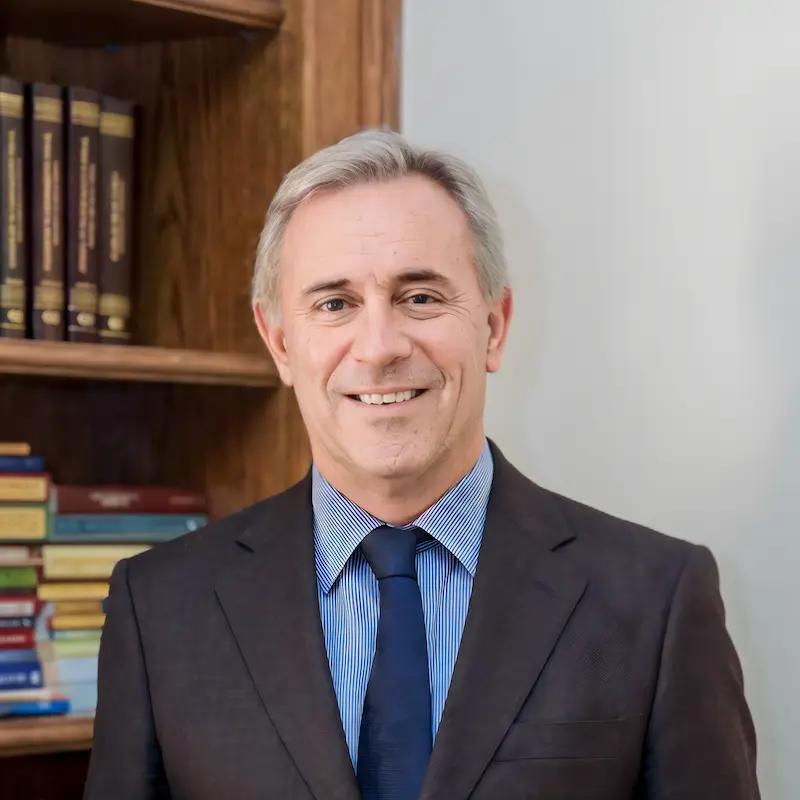
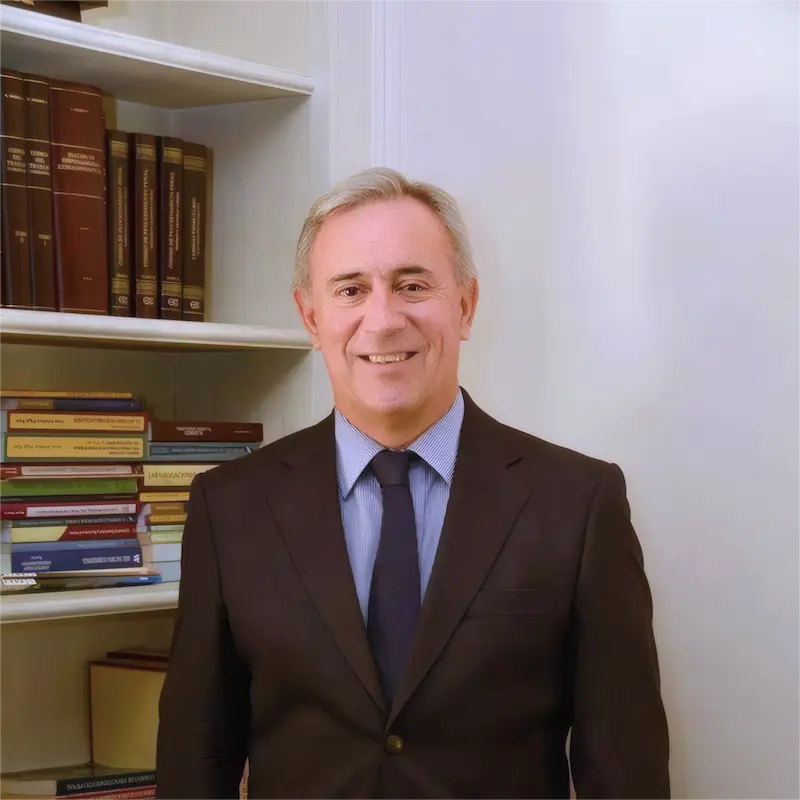
feat: textos plurales y actualizados de adil

diff --git a/src/data/areasDeTrabajo.js b/src/data/areasDeTrabajo.js
@@ -1,5 +1,12 @@
 export const contenidos = {
-    'reparacion-ddhh': {
+    'litigios-indemnizatorios': {
+        titulo: 'Litigios Indemnizatorios',
+        titleSecondary: 'Litigación especializada orientada a la reparación integral del daño',
+        resumenHome: 'Litigación especializada orientada a la reparación integral del daño',
+        descripcion: '**Brindamos representación judicial de alta complejidad en todo tipo de litigios indemnizatorios, ya sea en materia civil, penal, laboral o administrativa.**\n\n',
+        imagen: 'https://images.unsplash.com/photo-1450101499163-c8848c66ca85?q=80&w=1200&auto=format&fit=crop',
+        creditoFoto: 'Unsplash',
+    }, 'reparacion-ddhh': {
         titulo: 'Reparación y Derechos Humanos',
         titleSecondary: 'Justicia civil y reparaciones económicas para víctimas históricas.',
         resumenHome: 'Lideramos procesos de reparación civil para víctimas de violaciones a los DD.HH., con una trayectoria de más de 30 años en causas históricas contra el Estado.',
@@ -15,19 +22,12 @@ export const contenidos = {
         imagen: '/img/defensa-comunidades-carretera-austral.webp',
         creditoFoto: 'M M (Padmanaba01) / Wikimedia (CC BY-SA 2.0)',
     },
-    'litigios-indemnizatorios': {
-        titulo: 'Litigios Indemnizatorios',
-        titleSecondary: 'Especialistas en obtener justicia frente a negligencias y accidentes.',
-        resumenHome: 'Especialistas en negligencias médicas, accidentes laborales y responsabilidad civil para obtener restituciones justas.',
-        descripcion: '**Brindamos representación judicial de alta complejidad en todo tipo de litigios indemnizatorios, ya sea en materia civil, penal, laboral o administrativa.**\n\nContamos con vasta experiencia obteniendo compensaciones por daños y perjuicios derivados de accidentes laborales, accidentes de tránsito de gravedad, siniestros aéreos y negligencias médicas, asegurando que la responsabilidad de las grandes corporaciones o instituciones sea debidamente sancionada.',
-        imagen: 'https://images.unsplash.com/photo-1450101499163-c8848c66ca85?q=80&w=1200&auto=format&fit=crop',
-        creditoFoto: 'Unsplash',
-    },
+
     'defensa-administrativa': {
         titulo: 'Defensa Administrativa',
-        titleSecondary: 'Resguardo frente al poder sancionador del Estado y sumarios.',
+        titleSecondary: 'Resguardo frente al poder sancionador del Estado.',
         resumenHome: 'Asesoría técnica en sumarios administrativos y procesos sancionatorios frente a organismos del Estado y entes reguladores.',
-        descripcion: '**Entregamos representación y defensa jurídica técnica en sumarios administrativos instruidos contra funcionarios públicos**, así como en procesos sancionatorios seguidos por organismos del Estado en contra de empresas reguladas.\n\nProtegemos el debido proceso y la honra profesional frente al ejercicio de la potestad disciplinaria, asegurando que las sanciones no sean arbitrarias ni desproporcionadas respecto a la normativa vigente.',
+        descripcion: '**Ofrecemos una defensa jurídica técnica en sumarios administrativos e investigaciones sumarias**, instruidos en contra funcionarios públicos, protegiendo el debido proceso y la honra profesional frente al ejercicio de la potestad disciplinaria, asegurando que las sanciones no sean arbitrarias ni desproporcionadas respecto a la normativa vigente\n\nEntregamos asesoría jurídica especializada en procesos sancionatorios seguidos por organismos del Estado en contra de empresas reguladas o en sumarios sanitarios.',
         imagen: 'https://images.unsplash.com/photo-1423592707957-3b212afa6733?q=80&w=1200&auto=format&fit=crop',
         creditoFoto: 'Unsplash',
     },

diff --git a/prerender.js b/prerender.js
@@ -1,0 +1,94 @@
+import fs from 'node:fs'
+import path from 'node:path'
+import { fileURLToPath } from 'node:url'
+import { createServer } from 'vite'
+import { STATIC_ROUTES, AREAS_TRABAJO } from './src/constants/routes.js';
+
+const __dirname = path.dirname(fileURLToPath(import.meta.url))
+const toAbsolute = (p) => path.resolve(__dirname, p)
+
+// 🔗 Unión automatizada: Genera la lista única de rutas combinando estáticas y dinámicas
+const routesToPrerender = [
+    ...STATIC_ROUTES,
+    ...AREAS_TRABAJO.map(area => `/areas-de-trabajo/${area.id}`)
+];
+
+async function run() {
+    console.log('📦 Iniciando Prerenderizado Automatizado Multiruta para Adil Brkovic...')
+
+    // Simulaciones completas para silenciar los ciclos internos de Framer Motion en Node
+    globalThis.window = {
+        location: { pathname: '/' },
+        innerWidth: 1920,
+        innerHeight: 1080,
+        scrollTo: () => { },
+        addEventListener: () => { },
+        removeEventListener: () => { },
+        matchMedia: () => ({
+            matches: false,
+            addEventListener: () => { },
+            removeEventListener: () => { },
+            addListener: () => { },
+            removeListener: () => { }
+        }),
+    };
+    globalThis.document = {
+        addEventListener: () => { },
+        removeEventListener: () => { },
+        querySelector: () => null,
+    };
+
+    // 1. Inicializar el compilador en modo servidor
+    const vite = await createServer({
+        server: { middlewareMode: true },
+        appType: 'custom'
+    })
+
+    try {
+        const templatePath = toAbsolute('dist/index.html')
+        if (!fs.existsSync(templatePath)) {
+            console.error('❌ No se encontró dist/index.html. Primero corre vite build.')
+            await vite.close()
+            process.exit(1)
+        }
+
+        // Leer la base de HTML que escupió el cliente
+        const rawTemplate = fs.readFileSync(templatePath, 'utf-8')
+        const doctypeIndex = rawTemplate.indexOf('<!doctype html>')
+        const cleanTemplate = doctypeIndex === -1 ? rawTemplate : rawTemplate.substring(doctypeIndex)
+
+        // Cargar el entry-server
+        const { render } = await vite.ssrLoadModule('/src/entry-server.jsx')
+
+        // 2. Iterar por cada ruta del sitio web
+        for (const url of routesToPrerender) {
+            const appHtml = render(url)
+            console.log(`🔍 Ruta [${url}] ➜ Renderizados ${appHtml ? appHtml.length : 0} caracteres.`);
+
+            // Inyectar el árbol de React en el contenedor root
+            const finalHtml = cleanTemplate.replace(
+                '<div id="root"></div>',
+                `<div id="root">${appHtml}</div>`
+            )
+
+            // Determinar ruta del archivo final (ejemplo: /trayectoria se convierte en /trayectoria/index.html)
+            const fileName = url === '/' ? 'index.html' : `${url}/index.html`
+            const outputPath = toAbsolute(`dist/${fileName}`)
+
+            // Crear los directorios automáticamente si no existen
+            fs.mkdirSync(path.dirname(outputPath), { recursive: true })
+            fs.writeFileSync(outputPath, finalHtml, 'utf-8')
+        }
+
+        console.log('¡🚀 Prerenderizado por rutas completado con éxito absoluto!');
+
+    } catch (e) {
+        console.error('❌ Error crítico durante el prerenderizado:', e)
+    } finally {
+        await vite.close()
+        console.log('🛑 Servidor cerrado de forma limpia.');
+        process.exit(0)
+    }
+}
+
+run()

diff --git a/src/pages/Home.jsx b/src/pages/Home.jsx
@@ -48,12 +48,24 @@ const Home = () => {
 					</div>
 
 					<div className='grid grid-cols-1 md:grid-cols-6 gap-6'>
+						{/* 3. LITIGIOS INDEMNIZATORIOS (Ocupa 2 columnas) */}
+						<div className='md:col-span-3'>
+							<ServiceCard
+								title={contenidos['litigios-indemnizatorios'].titulo}
+								description={contenidos['litigios-indemnizatorios'].resumenHome}
+								link='/areas-de-trabajo/litigios-indemnizatorios'
+								image={contenidos['litigios-indemnizatorios'].imagen}
+								imageAlt={contenidos['litigios-indemnizatorios'].titulo}
+								attribution={contenidos['litigios-indemnizatorios'].creditoFoto}
+							/>
+						</div>
+
 						{/* 1. REPARACIÓN Y DD.HH. (Ocupa 3 columnas) */}
 						<div className='md:col-span-3'>
 							<ServiceCard
 								title={contenidos['reparacion-ddhh'].titulo}
 								description={contenidos['reparacion-ddhh'].resumenHome}
-								link='/servicio/reparacion-ddhh'
+								link='/areas-de-trabajo/reparacion-ddhh'
 								image={contenidos['reparacion-ddhh'].imagen}
 								imageAlt={contenidos['reparacion-ddhh'].titulo}
 								attribution={contenidos['reparacion-ddhh'].creditoFoto}
@@ -61,26 +73,14 @@ const Home = () => {
 						</div>
 
 						{/* 2. DEFENSA DE COMUNIDADES (Ocupa 3 columnas) */}
-						<div className='md:col-span-3'>
+						<div className='md:col-span-2'>
 							<ServiceCard
 								title={contenidos['defensa-comunidades'].titulo}
 								description={contenidos['defensa-comunidades'].resumenHome}
-								link='/servicio/defensa-comunidades'
+								link='/areas-de-trabajo/defensa-comunidades'
 								image={contenidos['defensa-comunidades'].imagen}
 								imageAlt={contenidos['defensa-comunidades'].titulo}
 								attribution={contenidos['defensa-comunidades'].creditoFoto}
-							/>
-						</div>
-
-						{/* 3. LITIGIOS INDEMNIZATORIOS (Ocupa 2 columnas) */}
-						<div className='md:col-span-2'>
-							<ServiceCard
-								title={contenidos['litigios-indemnizatorios'].titulo}
-								description={contenidos['litigios-indemnizatorios'].resumenHome}
-								link='/servicio/litigios-indemnizatorios'
-								image={contenidos['litigios-indemnizatorios'].imagen}
-								imageAlt={contenidos['litigios-indemnizatorios'].titulo}
-								attribution={contenidos['litigios-indemnizatorios'].creditoFoto}
 							/>
 						</div>
 
@@ -89,7 +89,7 @@ const Home = () => {
 							<ServiceCard
 								title={contenidos['defensa-administrativa'].titulo}
 								description={contenidos['defensa-administrativa'].resumenHome}
-								link='/servicio/defensa-administrativa'
+								link='/areas-de-trabajo/defensa-administrativa'
 								image={contenidos['defensa-administrativa'].imagen}
 								imageAlt={contenidos['defensa-administrativa'].titulo}
 								attribution={contenidos['defensa-administrativa'].creditoFoto}
@@ -101,7 +101,7 @@ const Home = () => {
 							<ServiceCard
 								title={contenidos['justicia-previsional'].titulo}
 								description={contenidos['justicia-previsional'].resumenHome}
-								link='/servicio/justicia-previsional'
+								link='/areas-de-trabajo/justicia-previsional'
 								image={contenidos['justicia-previsional'].imagen}
 								imageAlt={contenidos['justicia-previsional'].titulo}
 								attribution={contenidos['justicia-previsional'].creditoFoto}

diff --git a/generate-sitemap.js b/generate-sitemap.js
@@ -1,0 +1,51 @@
+import fs from 'node:fs'
+import path from 'node:path'
+import { fileURLToPath } from 'node:url'
+import { SitemapStream, streamToPromise } from 'sitemap'
+import { STATIC_ROUTES, AREAS_TRABAJO } from './src/constants/routes.js';
+
+const __dirname = path.dirname(fileURLToPath(import.meta.url))
+const outputPath = path.resolve(__dirname, 'dist/sitemap.xml')
+
+// 1. Configura aquí las rutas que quieres que Google indexe
+const links = [
+    { url: '/', changefreq: 'weekly', priority: 1.0 },
+    { url: '/trayectoria/', changefreq: 'monthly', priority: 0.8 },
+    { url: '/areas-de-trabajo/', changefreq: 'monthly', priority: 0.8 },
+    { url: '/politica-de-privacidad/', changefreq: 'yearly', priority: 0.3 },
+    // Tus servicios dinámicos
+    { url: '/areas-de-trabajo/litigios-indemnizatorios/', changefreq: 'monthly', priority: 0.7 },
+    { url: '/areas-de-trabajo/reparacion-ddhh/', changefreq: 'monthly', priority: 0.7 },
+    { url: '/areas-de-trabajo/defensa-comunidades/', changefreq: 'monthly', priority: 0.7 },
+    { url: '/areas-de-trabajo/defensa-administrativa/', changefreq: 'monthly', priority: 0.7 },
+    { url: '/areas-de-trabajo/justicia-previsional/', changefreq: 'monthly', priority: 0.7 }
+]
+
+async function generate() {
+    console.log('🗺  Generando sitemap.xml para estudiobrkovic.cl...')
+
+    try {
+        // Asegurarse de que la carpeta dist exista antes de guardar
+        if (!fs.existsSync(path.resolve(__dirname, 'dist'))) {
+            fs.mkdirSync(path.resolve(__dirname, 'dist'), { recursive: true })
+        }
+
+        const stream = new SitemapStream({ hostname: 'https://estudiobrkovic.cl' })
+
+        // Escribir los enlaces en el canal de datos
+        links.forEach(link => stream.write(link))
+        stream.end()
+
+        // Convertir el flujo a un string XML legible
+        const sitemapOutput = await streamToPromise(stream)
+
+        // Guardar el archivo directamente en la carpeta dist para que se suba a Vercel
+        fs.writeFileSync(outputPath, sitemapOutput.toString(), 'utf-8')
+
+        console.log('✅ ¡sitemap.xml generado con éxito absoluto en dist/sitemap.xml!');
+    } catch (error) {
+        console.error('❌ Error al generar el sitemap:', error)
+    }
+}
+
+generate()

diff --git a/src/pages/Trayectoria.jsx b/src/pages/Trayectoria.jsx
@@ -60,11 +60,11 @@ const Trayectoria = () => {
 
 				<ImageText
 					title='Adil Brkovic Almonte'
-					text={`Con más de 30 años de ejercicio profesional, Adil Brkovic Almonte, es un referente en la defensa de las víctimas de violaciones a los Derechos Humanos cometidas durante la dictadura militar, la defensa de derechos civiles en democracia y litigios indemnizatorios de alta complejidad.
+					text={`Con más de 30 años de ejercicio profesional, Adil Brkovic Almonte es un referente en la defensa de las víctimas de violaciones a los Derechos Humanos cometidas durante la dictadura militar, la defensa de derechos civiles en democracia y litigios indemnizatorios de alta complejidad.
 
-Licenciado en la Universidad Católica de Valparaíso, su carrera destaca por liderar hitos jurídicos como las condenas a criminales de lesa humanidad, indemnizaciones emblemáticas contra el Estado y grandes Corporaciones, como los casos conocidos como Casas COPEVA y la Planta la Farfana de Aguas Andinas.
+Licenciado en la Universidad Católica de Valparaíso, su carrera destaca por liderar hitos jurídicos como las condenas a criminales de lesa humanidad, e indemnizaciones emblemáticas contra el Estado y grandes corporaciones, como los casos conocidos como Casas COPEVA y la Planta La Farfana de Aguas Andinas.
 
-Especialista en litigios indemnizatorios, su práctica combina el rigor técnico con el compromiso profesional, consolidando una oficina que se destaca por entregar un servicio cercano y de calidad a sus representados.`}
+A partir de esta sólida experiencia, decidió fundar un estudio jurídico especializado en litigios indemnizatorios, tributarios y administrativos. Hoy, la firma combina el rigor técnico con el compromiso ético de un equipo de profesionales cuya misión principal es entregar una representación legal cercana, estratégica y de excelencia a sus representados.`}
 					buttonText='Contactar ahora'
 					buttonLink='/contacto'
 					image='/img/Hero-adil.webp'

diff --git a/src/components/Footer.jsx b/src/components/Footer.jsx
@@ -1,4 +1,5 @@
 import { Link } from 'react-router-dom';
+import { AREAS_TRABAJO } from '../constants/routes';
 // Añadimos ChevronRight a la lista de iconos importados
 import { Mail, Phone, MapPin, ChevronRight, User, ArrowUp } from 'lucide-react';
 
@@ -6,13 +7,11 @@ import { WHATSAPP_URL, CONTACT_EMAIL, PHONE_NUMBER } from '../constants/contact'
 
 const Footer = () => {
 	// Cambiamos el nombre a 'areas' para que coincida con el .map de abajo
-	const areas = [
-		{ name: 'Justicia y DD.HH.', path: '/servicio/reparacion-ddhh' },
-		{ name: 'Defensa de Comunidades', path: '/servicio/defensa-comunidades' },
-		{ name: 'Litigios Indemnizatorios', path: '/servicio/litigios-indemnizatorios' },
-		{ name: 'Defensa Administrativa', path: '/servicio/defensa-administrativa' },
-		{ name: 'Justicia Previsional', path: '/servicio/justicia-previsional' },
-	];
+	const servicios = AREAS_TRABAJO.map((area) => ({
+		name: area.name,
+		path: `/areas-de-trabajo/${area.id}`,
+	}));
+
 	const scrollToTop = () => {
 		window.scrollTo({
 			top: 0,
@@ -49,7 +48,7 @@ const Footer = () => {
 					</Link>
 
 					<ul className='space-y-3'>
-						{areas.map((a) => (
+						{servicios.map((a) => (
 							<li key={a.path}>
 								<Link to={a.path} className=' text-[11px] hover:text-[#e67e22] transition-colors font-light uppercase tracking-wider'>
 									{a.name}

diff --git a/src/pages/AreasTrabajoHub.jsx b/src/pages/AreasTrabajoHub.jsx
@@ -12,7 +12,7 @@ const ServiciosHub = () => {
 
 	const renderCard = (id) => {
 		const data = contenidos[id];
-		return <ServiceCard title={data.titulo} description={data.titleSecondary} link={`/servicio/${id}`} image={data.imagen} attribution={data.creditoFoto} />;
+		return <ServiceCard title={data.titulo} description={data.titleSecondary} link={`/areas-de-trabajo/${id}`} image={data.imagen} attribution={data.creditoFoto} />;
 	};
 
 	return (
@@ -32,10 +32,10 @@ const ServiciosHub = () => {
 
 				{/* 2. GRILLA EQUIVALENTE AL HOME (MD:6) */}
 				<div className='grid grid-cols-1 md:grid-cols-6 gap-8'>
+					<div className='md:col-span-3'>{renderCard('litigios-indemnizatorios')}</div>
 					<div className='md:col-span-3'>{renderCard('reparacion-ddhh')}</div>
-					<div className='md:col-span-3'>{renderCard('defensa-comunidades')}</div>
+					<div className='md:col-span-2'>{renderCard('defensa-comunidades')}</div>
 
-					<div className='md:col-span-2'>{renderCard('litigios-indemnizatorios')}</div>
 					<div className='md:col-span-2'>{renderCard('defensa-administrativa')}</div>
 					<div className='md:col-span-2'>{renderCard('justicia-previsional')}</div>
 				</div>

diff --git a/src/components/Navbar.jsx b/src/components/Navbar.jsx
@@ -2,19 +2,17 @@ import { useState } from 'react';
 import { Link, useLocation } from 'react-router-dom';
 import { Menu, X, ChevronDown } from 'lucide-react';
 import { WHATSAPP_URL } from '../constants/contact';
+import { AREAS_TRABAJO } from '../constants/routes';
 
 export const Navbar = () => {
 	const [isOpen, setIsOpen] = useState(false);
 	const [isDropdownOpen, setIsDropdownOpen] = useState(false);
 	const location = useLocation();
 
-	const servicios = [
-		{ name: 'Justicia y DD.HH.', path: '/servicio/reparacion-ddhh' },
-		{ name: 'Defensa de Comunidades', path: '/servicio/defensa-comunidades' },
-		{ name: 'Litigios Indemnizatorios', path: '/servicio/litigios-indemnizatorios' },
-		{ name: 'Defensa Administrativa', path: '/servicio/defensa-administrativa' },
-		{ name: 'Justicia Previsional', path: '/servicio/justicia-previsional' },
-	];
+	const servicios = AREAS_TRABAJO.map((area) => ({
+		name: area.name,
+		path: `/areas-de-trabajo/${area.id}`,
+	}));
 
 	// Función para cerrar todo al navegar
 	const closeMenus = () => {

diff --git a/src/components/ServiceCard.jsx b/src/components/ServiceCard.jsx
@@ -4,7 +4,7 @@ export const ServiceCard = ({ title, description, link, image, imageAlt, attribu
 	<div className='card-service bg-white flex flex-col h-full shadow-lg group'>
 		{/* 1. Imagen que toca los bordes */}
 		<div className='aspect-video overflow-hidden w-full relative'>
-			<img src={image} alt={imageAlt || title} className='w-full h-full object-cover grayscale group-hover:grayscale-0 group-hover:scale-105 transition-all duration-700 block' />
+			<img src={image} alt={imageAlt || title} className='w-full h-full object-cover  group-hover:scale-105 transition-all duration-700 block' />
 			{/* CRÉDITO DE IMAGEN: Sutil y elegante en la esquina */}
 			{attribution && (
 				<span className='absolute bottom-1 right-2 text-[7px] text-white/50 uppercase tracking-tighter pointer-events-none group-hover:text-white/80 transition-opacity italic'>

diff --git a/src/components/HeroHome.jsx b/src/components/HeroHome.jsx
@@ -8,7 +8,7 @@ export const HeroHome = () => (
 				<h1 className='text-6xl md:text-6xl font-black text-brand-blue leading-[0.9] tracking-tighter'>ESTUDIO JURÍDICO BRKOVIC</h1>
 				{/* <p className='text-brand-gold font-bold uppercase tracking-[0.3em] text-xs mt-4'>Abogado</p> */}
 				<p className='mt-8 text-gray-600 text-lg border-l-4 border-brand-blue pl-6 max-w-md italic'>
-					Defensa jurídica con más de 30 años de trayectoria. Especialista en litigios indemnizatorios individuales y colectivos.
+					Defensa jurídica con más de 30 años de trayectoria. Especialistas en litigios indemnizatorios individuales y colectivos.
 				</p>
 				{/* BOTÓN PRIMARIO AÑADIDO */}
 				<div className='mt-10'>

diff --git a/src/constants/routes.js b/src/constants/routes.js
@@ -1,0 +1,16 @@
+// Definimos el origen único de la verdad para las áreas de trabajo
+export const AREAS_TRABAJO = [
+    { id: 'reparacion-ddhh', name: 'Justicia y DD.HH.' },
+    { id: 'defensa-comunidades', name: 'Defensa de Comunidades' },
+    { id: 'litigios-indemnizatorios', name: 'Litigios Indemnizatorios' },
+    { id: 'defensa-administrativa', name: 'Defensa Administrativa' },
+    { id: 'justicia-previsional', name: 'Justicia Previsional' },
+];
+
+// Rutas estáticas básicas del sitio
+export const STATIC_ROUTES = [
+    '/',
+    '/trayectoria',
+    '/areas-de-trabajo',
+    '/politica-de-privacidad'
+];

diff --git a/src/constants/contact.js b/src/constants/contact.js
@@ -1,7 +1,7 @@
 // src/constants/contact.js
 
-export const PHONE_NUMBER = "56977694871"; // Reemplaza con el número real de Adil
+export const PHONE_NUMBER = "56953960666"; // Reemplaza con el número real de Adil
 const MESSAGE = encodeURIComponent("Hola, vi su sitio web y quisiera realizar una consulta legal.");
 
 export const WHATSAPP_URL = `https://wa.me/${PHONE_NUMBER}?text=${MESSAGE}`;
-export const CONTACT_EMAIL = "contacto@adilbrkovic.cl"; // Ya que estás, centraliza el mail
+export const CONTACT_EMAIL = "adilbrkovic@gmail.com"; // Ya que estás, centraliza el mail
